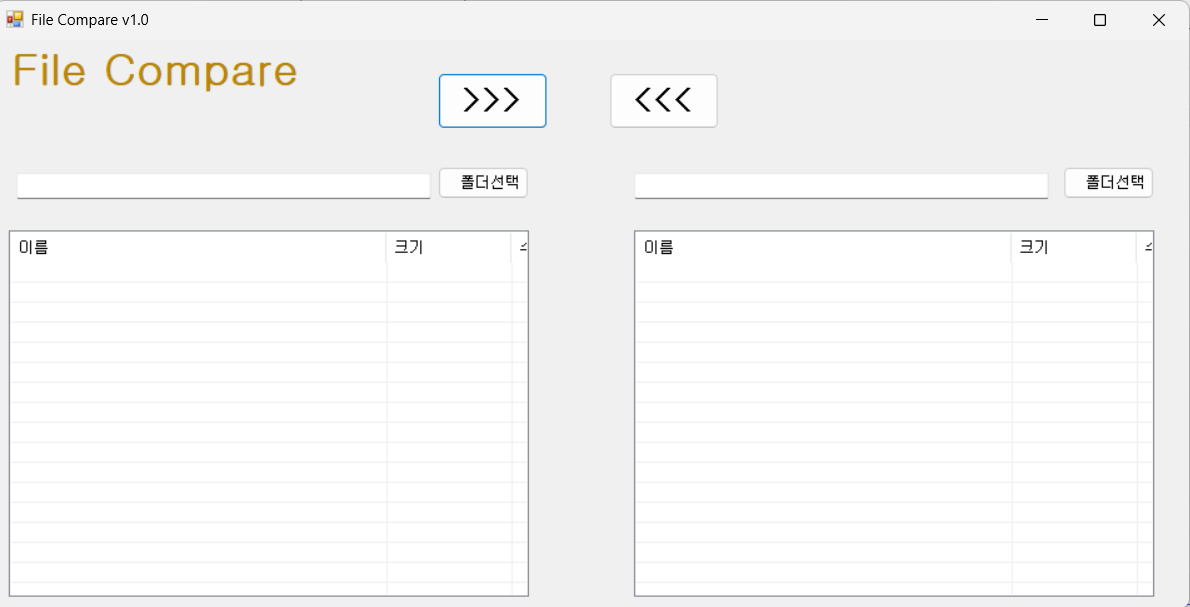
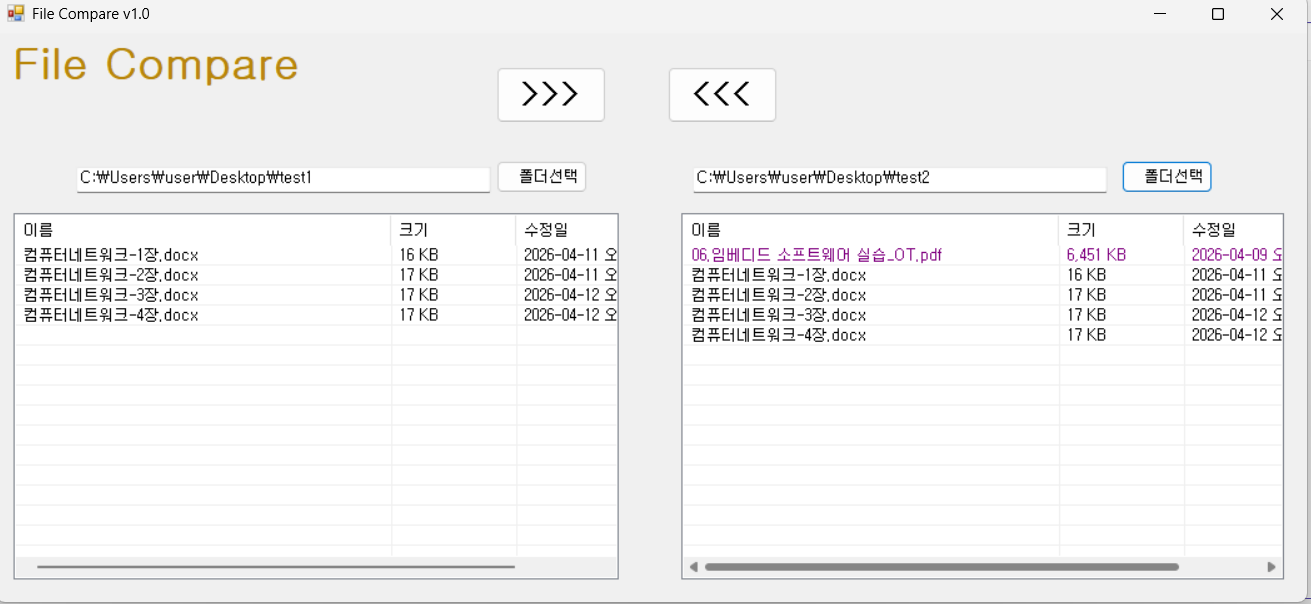
과제2 코딩과 테스트 완료 폴더 선택 기능과 파일 리스트 기능 구현 중 색상 구분 표시 기능을 추가하였습니다. 동일 파일 시  양쪽 모두 검은색, 단독 파일 시 보라색으로 표시

diff --git a/Form1.cs b/Form1.cs
@@ -1,18 +1,29 @@
 using System;
 using System.Collections.Generic;
-using System.ComponentModel;
-using System.Data;
 using System.Drawing;
 using System.IO;
 using System.Linq;
-using System.Text;
-using System.Threading.Tasks;
 using System.Windows.Forms;
 
 namespace FileCompare
 {
     public partial class Form1 : Form
     {
+        private enum FileStatus
+        {
+            Same,
+            New,
+            Old,
+            Single
+        }
+
+        private sealed class FileEntry
+        {
+            public string Name { get; set; }
+            public long Length { get; set; }
+            public DateTime LastWriteTime { get; set; }
+        }
+
         public Form1()
         {
             InitializeComponent();
@@ -23,9 +34,8 @@ namespace FileCompare
             using (var dlg = new FolderBrowserDialog())
             {
                 dlg.Description = "폴더를 선택하세요.";
-                // 현재 텍스트박스에 있는 경로를 초기 선택 폴더로 설정
-                if (!string.IsNullOrWhiteSpace(txtLeftDir.Text) &&
-                                Directory.Exists(txtLeftDir.Text))
+
+                if (!string.IsNullOrWhiteSpace(txtLeftDir.Text) && Directory.Exists(txtLeftDir.Text))
                 {
                     dlg.SelectedPath = txtLeftDir.Text;
                 }
@@ -33,24 +43,137 @@ namespace FileCompare
                 if (dlg.ShowDialog() == DialogResult.OK)
                 {
                     txtLeftDir.Text = dlg.SelectedPath;
+                    PopulateListViews();
                 }
             }
         }
+
         private void btnRightDir_Click(object sender, EventArgs e)
         {
-            using (var dlg = new FolderBrowserDialog()) { 
-                dlg.Description = "폴더를 선택하세요.";
-            // 현재 텍스트박스에 있는 경로를 초기 선택 폴더로 설정
-            if (!string.IsNullOrWhiteSpace(txtRightDir.Text) &&
-                            Directory.Exists(txtRightDir.Text))
+            using (var dlg = new FolderBrowserDialog())
             {
-                dlg.SelectedPath = txtRightDir.Text;
+                dlg.Description = "폴더를 선택하세요.";
+
+                if (!string.IsNullOrWhiteSpace(txtRightDir.Text) && Directory.Exists(txtRightDir.Text))
+                {
+                    dlg.SelectedPath = txtRightDir.Text;
+                }
+
+                if (dlg.ShowDialog() == DialogResult.OK)
+                {
+                    txtRightDir.Text = dlg.SelectedPath;
+                    PopulateListViews();
+                }
+            }
+        }
+
+        private void PopulateListViews()
+        {
+            var leftFiles = LoadFiles(txtLeftDir.Text);
+            var rightFiles = LoadFiles(txtRightDir.Text);
+
+            PopulateListView(lvwLeftDir, leftFiles, rightFiles);
+            PopulateListView(lvwRightDir, rightFiles, leftFiles);
+        }
+
+        private Dictionary<string, FileEntry> LoadFiles(string folderPath)
+        {
+            var files = new Dictionary<string, FileEntry>(StringComparer.OrdinalIgnoreCase);
+
+            if (string.IsNullOrWhiteSpace(folderPath) || !Directory.Exists(folderPath))
+            {
+                return files;
             }
 
-            if (dlg.ShowDialog() == DialogResult.OK)
+            try
             {
-                txtRightDir.Text = dlg.SelectedPath;
+                foreach (var filePath in Directory.GetFiles(folderPath))
+                {
+                    var info = new FileInfo(filePath);
+                    files[info.Name] = new FileEntry
+                    {
+                        Name = info.Name,
+                        Length = info.Length,
+                        LastWriteTime = info.LastWriteTime
+                    };
+                }
             }
-        } }
+            catch (Exception ex)
+            {
+                MessageBox.Show(ex.Message, "오류", MessageBoxButtons.OK, MessageBoxIcon.Error);
+            }
+
+            return files;
+        }
+
+        private void PopulateListView(ListView listView, Dictionary<string, FileEntry> currentFiles, Dictionary<string, FileEntry> otherFiles)
+        {
+            try
+            {
+                listView.BeginUpdate();
+                listView.Items.Clear();
+
+                foreach (var file in currentFiles.Values.OrderBy(f => f.Name))
+                {
+                    var item = new ListViewItem(file.Name);
+                    item.SubItems.Add(FormatSize(file.Length));
+                    item.SubItems.Add(file.LastWriteTime.ToString("yyyy-MM-dd tt h:mm"));
+                    item.ForeColor = GetStatusColor(GetFileStatus(file, otherFiles));
+                    listView.Items.Add(item);
+                }
+            }
+            catch (Exception ex)
+            {
+                MessageBox.Show(ex.Message, "오류", MessageBoxButtons.OK, MessageBoxIcon.Error);
+            }
+            finally
+            {
+                listView.EndUpdate();
+            }
+        }
+
+        private FileStatus GetFileStatus(FileEntry file, Dictionary<string, FileEntry> otherFiles)
+        {
+            FileEntry otherFile;
+
+            if (!otherFiles.TryGetValue(file.Name, out otherFile))
+            {
+                return FileStatus.Single;
+            }
+
+            if (file.LastWriteTime == otherFile.LastWriteTime)
+            {
+                return FileStatus.Same;
+            }
+
+            if (file.LastWriteTime > otherFile.LastWriteTime)
+            {
+                return FileStatus.New;
+            }
+
+            return FileStatus.Old;
+        }
+
+        private Color GetStatusColor(FileStatus status)
+        {
+            switch (status)
+            {
+                case FileStatus.Same:
+                    return Color.Black;
+                case FileStatus.New:
+                    return Color.Red;
+                case FileStatus.Old:
+                    return Color.Gray;
+                case FileStatus.Single:
+                    return Color.Purple;
+                default:
+                    return Color.Black;
+            }
+        }
+
+        private string FormatSize(long length)
+        {
+            return string.Format("{0:#,##0} KB", length / 1024d);
+        }
     }
 }
